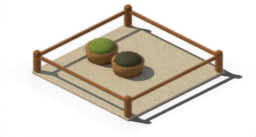
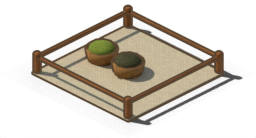
Grenier et entrepôt : contour noir autour des cases et des marchandises pour les détacher du bâtiment
Claude-Session: https://claude.ai/code/session_012k6Ew1QdeaSp1xGznCLvWi

diff --git a/tools/art/storage.py b/tools/art/storage.py
@@ -16,6 +16,8 @@ import random
 
 import bpy
 
+import kit
+
 from buildings import BUILDINGS
 from kit import (M, T, amphora, awning, blob, crate, cyl, dado, ground_pad, opening, pithos, post, prism_roof,
                  rubble_wall, sphere, tbox, _tile_row)
@@ -186,8 +188,10 @@ FILL = {"wheat": wheat, "fish": fish, "olives": olives, "oil": oil, "wool": wool
 # --------------------------------------------------------------------------- bâtiments
 
 def _bays(name):
+    before = set(bpy.context.scene.objects)
     for (cx, cy) in BAYS["buildings"][name]:
         BAY[name](cx, cy)
+    _black_outline([o for o in bpy.context.scene.objects if o not in before])
 
 
 def granary():
@@ -251,6 +255,28 @@ BUILDINGS["granary"] = (granary, 3)
 BUILDINGS["warehouse"] = (warehouse, 3)
 
 
+def _black_outline(objects):
+    """Contour noir épais autour des cases et de leurs marchandises : elles se détachent de la halle et du sol."""
+    col = bpy.data.collections.new("marchandises")
+    bpy.context.scene.collection.children.link(col)
+    for o in objects:
+        for c in list(o.users_collection):
+            c.objects.unlink(o)
+        col.objects.link(o)
+    fs = bpy.context.scene.view_layers[0].freestyle_settings
+    ls = fs.linesets.new("contour_noir")
+    ls.select_by_visibility = True
+    ls.select_by_collection = True
+    ls.collection = col
+    ls.select_silhouette = True
+    ls.select_border = False
+    ls.select_crease = False
+    ls.linestyle = bpy.data.linestyles.new("noir")
+    ls.linestyle.color = (0.04, 0.03, 0.02)
+    ls.linestyle.alpha = 1.0
+    ls.linestyle.thickness = 1.0  # multiplié par l'épaisseur de rendu (0,5 x SCALE) : 2 px en 4x
+
+
 def goods_jobs():
     """(nom, fonction de scène) de chaque case pleine à rendre."""
     jobs = []
@@ -258,7 +284,9 @@ def goods_jobs():
         for res in resources:
             for lv in range(1, 5):
                 def scene(b=b, res=res, lv=lv):
+                    before = set(bpy.context.scene.objects)
                     BAY[b](0.5, 0.5)
                     FILL[res](0.5, 0.5, lv, random.Random(lv))
+                    _black_outline([o for o in bpy.context.scene.objects if o not in before])
                 jobs.append(("%s_%s_%d" % (b, res, lv), scene))
     return jobs
